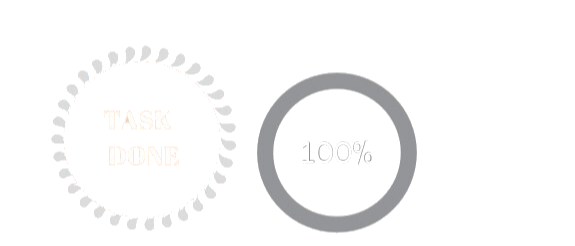
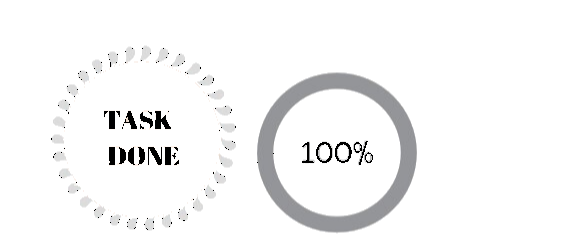
Subcat moved to professsional detail

Changed region(s): [[0.5322, 0.5691, 0.6504, 0.6829], [0.1774, 0.5976, 0.3252, 0.6829], [0.1774, 0.4268, 0.2957, 0.5407]]

diff --git a/src/app/components/routes/professional-detail/professional-detail.component.html b/src/app/components/routes/professional-detail/professional-detail.component.html
@@ -42,10 +42,7 @@
                                         Phone Number
                                         required</small>                
                                 </div> 
-
-
                             </div>
-
                             <div class="form-group">
                                 <input type="date" class="form-control" placeholder="Date Of Birth"
                                     [formControl]="professionalForm.controls['dob']">
@@ -58,6 +55,22 @@
                                         of Birth is
                                         required</small>               
                                 </div> 
+                            </div>
+                            <div class="form-group">
+                                <h5>Select Skills</h5>
+                            </div>
+                            <div class="form-group">
+                                <select class="form-control" multiple
+                                    [formControl]="professionalForm.controls['subCategory']">
+                                    <option *ngFor="let subCat of subCategoryList" value="{{subCat.subCategoryId}}">
+                                        {{subCat.SubCategoryName}}</option>
+                                </select>
+                                <div class="alert alert-danger"
+                                    *ngIf="professionalForm.controls['subCategory'].invalid && professionalForm.controls['subCategory'].touched">
+                                    <small class="text-danger"
+                                        *ngIf="professionalForm.get('subCategory').errors?.required">
+                                        Sub-Category is Required</small>                   
+                                </div>
                             </div>
                             <div class="form-group" style=" padding-top: 19px;">
                                 <textarea rows="6" class="form-control" placeholder="Writte about yourself in detail"

diff --git a/src/app/components/shared/address/address.component.html b/src/app/components/shared/address/address.component.html
@@ -45,10 +45,10 @@
                                         Required</small>                   
                                 </div>       
                             </div>
-                            <div class="form-group">
+                            <!-- <div class="form-group">
                                 <h5>Select Skills</h5>
-                            </div>
-                            <div class="form-group">
+                            </div> -->
+                            <!-- <div class="form-group">
                                 <select class="form-control" multiple
                                     [formControl]="addressForm.controls['subCategory']">
                                     <option *ngFor="let subCat of subCategoryList" value="{{subCat.subCategoryId}}">
@@ -59,7 +59,7 @@
                                     <small class="text-danger" *ngIf="addressForm.get('subCategory').errors?.required">
                                         Sub-Category is Required</small>                   
                                 </div>
-                            </div>
+                            </div> -->
                         </li>
                         <li>
                             <button class="button" style="float: left;" (click)="onBack()">Back</button>

diff --git a/src/app/components/routes/join-as-pro/join-as-pro.component.html b/src/app/components/routes/join-as-pro/join-as-pro.component.html
@@ -9,13 +9,14 @@
                                 *ngIf="currentViewId == 0" class="shared-form">
                             </app-category>
                             <app-professional-detail (professionalDetail)="professionalDetail($event)"
-                                *ngIf="currentViewId == 1" class="shared-form"></app-professional-detail>
+                                [subCategoryList]="subCategoryLists" *ngIf="currentViewId == 1" class="shared-form">
+                            </app-professional-detail>
                             <!-- <app-sub-category [subCategoryList]="subCategoryLists"
                                 (subCatList)="subCategorysList($event)" (subCatListValue)="subCategoryListValue($event)"
                                 *ngIf="currentViewId == 1" class="shared-form">
                             </app-sub-category> -->
                             <app-address (submitEvent)="addressData($event)" [isBecomeEarner]="isBecomeEarner"
-                                [subCategoryList]="subCategoryLists" *ngIf="currentViewId == 2" class="shared-form">
+                                *ngIf="currentViewId == 2" class="shared-form">
                             </app-address>
                         </div>
                     </div>

diff --git a/src/app/components/routes/professional-detail/professional-detail.component.ts b/src/app/components/routes/professional-detail/professional-detail.component.ts
@@ -1,4 +1,4 @@
-import { Component, OnInit, Output, EventEmitter } from '@angular/core';
+import { Component, OnInit, Output, EventEmitter, Input } from '@angular/core';
 import { FormBuilder, FormGroup, Validators } from '@angular/forms';
 
 
@@ -9,6 +9,7 @@ import { FormBuilder, FormGroup, Validators } from '@angular/forms';
 })
 export class ProfessionalDetailComponent implements OnInit {
   professionalForm: FormGroup;
+  @Input() subCategoryList: any;
   @Output() professionalDetail = new EventEmitter()
   constructor(private fb: FormBuilder) { }
 
@@ -20,7 +21,8 @@ export class ProfessionalDetailComponent implements OnInit {
       introduction: ['', [Validators.required]],
       phone: ['', [Validators.required, Validators.minLength(10)]],
       dob: ['', [Validators.required]],
-      gender: ['', [Validators.required]]
+      gender: ['', [Validators.required]],
+      subCategory: ['', [Validators.required]]
     });
   }
 

diff --git a/src/app/components/shared/address/address.component.ts b/src/app/components/shared/address/address.component.ts
@@ -9,7 +9,6 @@ import { FormBuilder, FormGroup, Validators } from '@angular/forms';
 })
 export class AddressComponent implements OnInit, OnChanges {
   addressForm: FormGroup;
-  @Input() subCategoryList: any;
   @Input() isBecomeEarner: boolean;
   @Output() submitEvent = new EventEmitter()
   constructor(private fb: FormBuilder) { }
@@ -25,7 +24,6 @@ export class AddressComponent implements OnInit, OnChanges {
       this.addressForm = this.fb.group({
         street: ['', [Validators.required,]],
         city: ['', [Validators.required]],
-        subCategory: ['', [Validators.required]],
         pincode: ['', [Validators.required]],
         country: ['', [Validators.required]]
       });

diff --git a/src/app/components/routes/home-page/home-page.component.html b/src/app/components/routes/home-page/home-page.component.html
@@ -189,7 +189,7 @@
 </div>
 
 
-<section class="ftco-section services-section bg-primary" style="padding: 1em; background-color: black !important;">
+<section class="ftco-section services-section bg-primary" style="padding: 1em; background-color: white !important;">
     <div class="container-fluid">
         <div class="row d-flex" style="justify-content: space-around;">
             <div class="col-md-4 d-flex align-self-stretch ftco-animate" style="text-align: center; margin-top: 17px;">

diff --git a/src/app/components/routes/join-as-pro/join-as-pro.component.ts b/src/app/components/routes/join-as-pro/join-as-pro.component.ts
@@ -72,8 +72,8 @@ export class JoinAsProComponent implements OnInit {
         y.push(x.subCategoryId)
       })
       let subCatIds = []
-      if (this.userAddress.subCategory) {
-        subCatIds = this.userAddress.subCategory.map((x) => parseInt(x));
+      if (this.professionalData.subCategory) {
+        subCatIds = this.professionalData.subCategory.map((x) => parseInt(x));
       }
       let proUserObj = {
         categoryId: parseInt(this.categoryListId),

diff --git a/src/app/components/routes/professional-detail/professional-detail.component.css b/src/app/components/routes/professional-detail/professional-detail.component.css
@@ -548,6 +548,7 @@ input:focus {
   background-size: cover;
   background-image: linear-gradient(90deg, #38a6ff, #03c1a1);
 }
+
 select {
   width: calc(100% - 10px);
   min-height: 30px;
@@ -556,6 +557,7 @@ select {
   letter-spacing: .5px;
   border: 0;
   border-bottom: 2px solid #f0f0f0;
+  height: auto !important;
 }
 
 select:valid {

diff --git a/src/assets/template/css/style.css b/src/assets/template/css/style.css
@@ -11251,13 +11251,13 @@ h1, h2, h3, h4, h5, .h1, .h2, .h3, .h4, .h5 {
 }
 
 .services .media-body {
-    color: #ffff;
+    color: #312f2f;
 }
 
 .services .media-body h3 {
     font-size: 18px;
     font-weight: 700;
-    color: #fff;
+    color: #312f2f;
 }
 
 .list-services {
